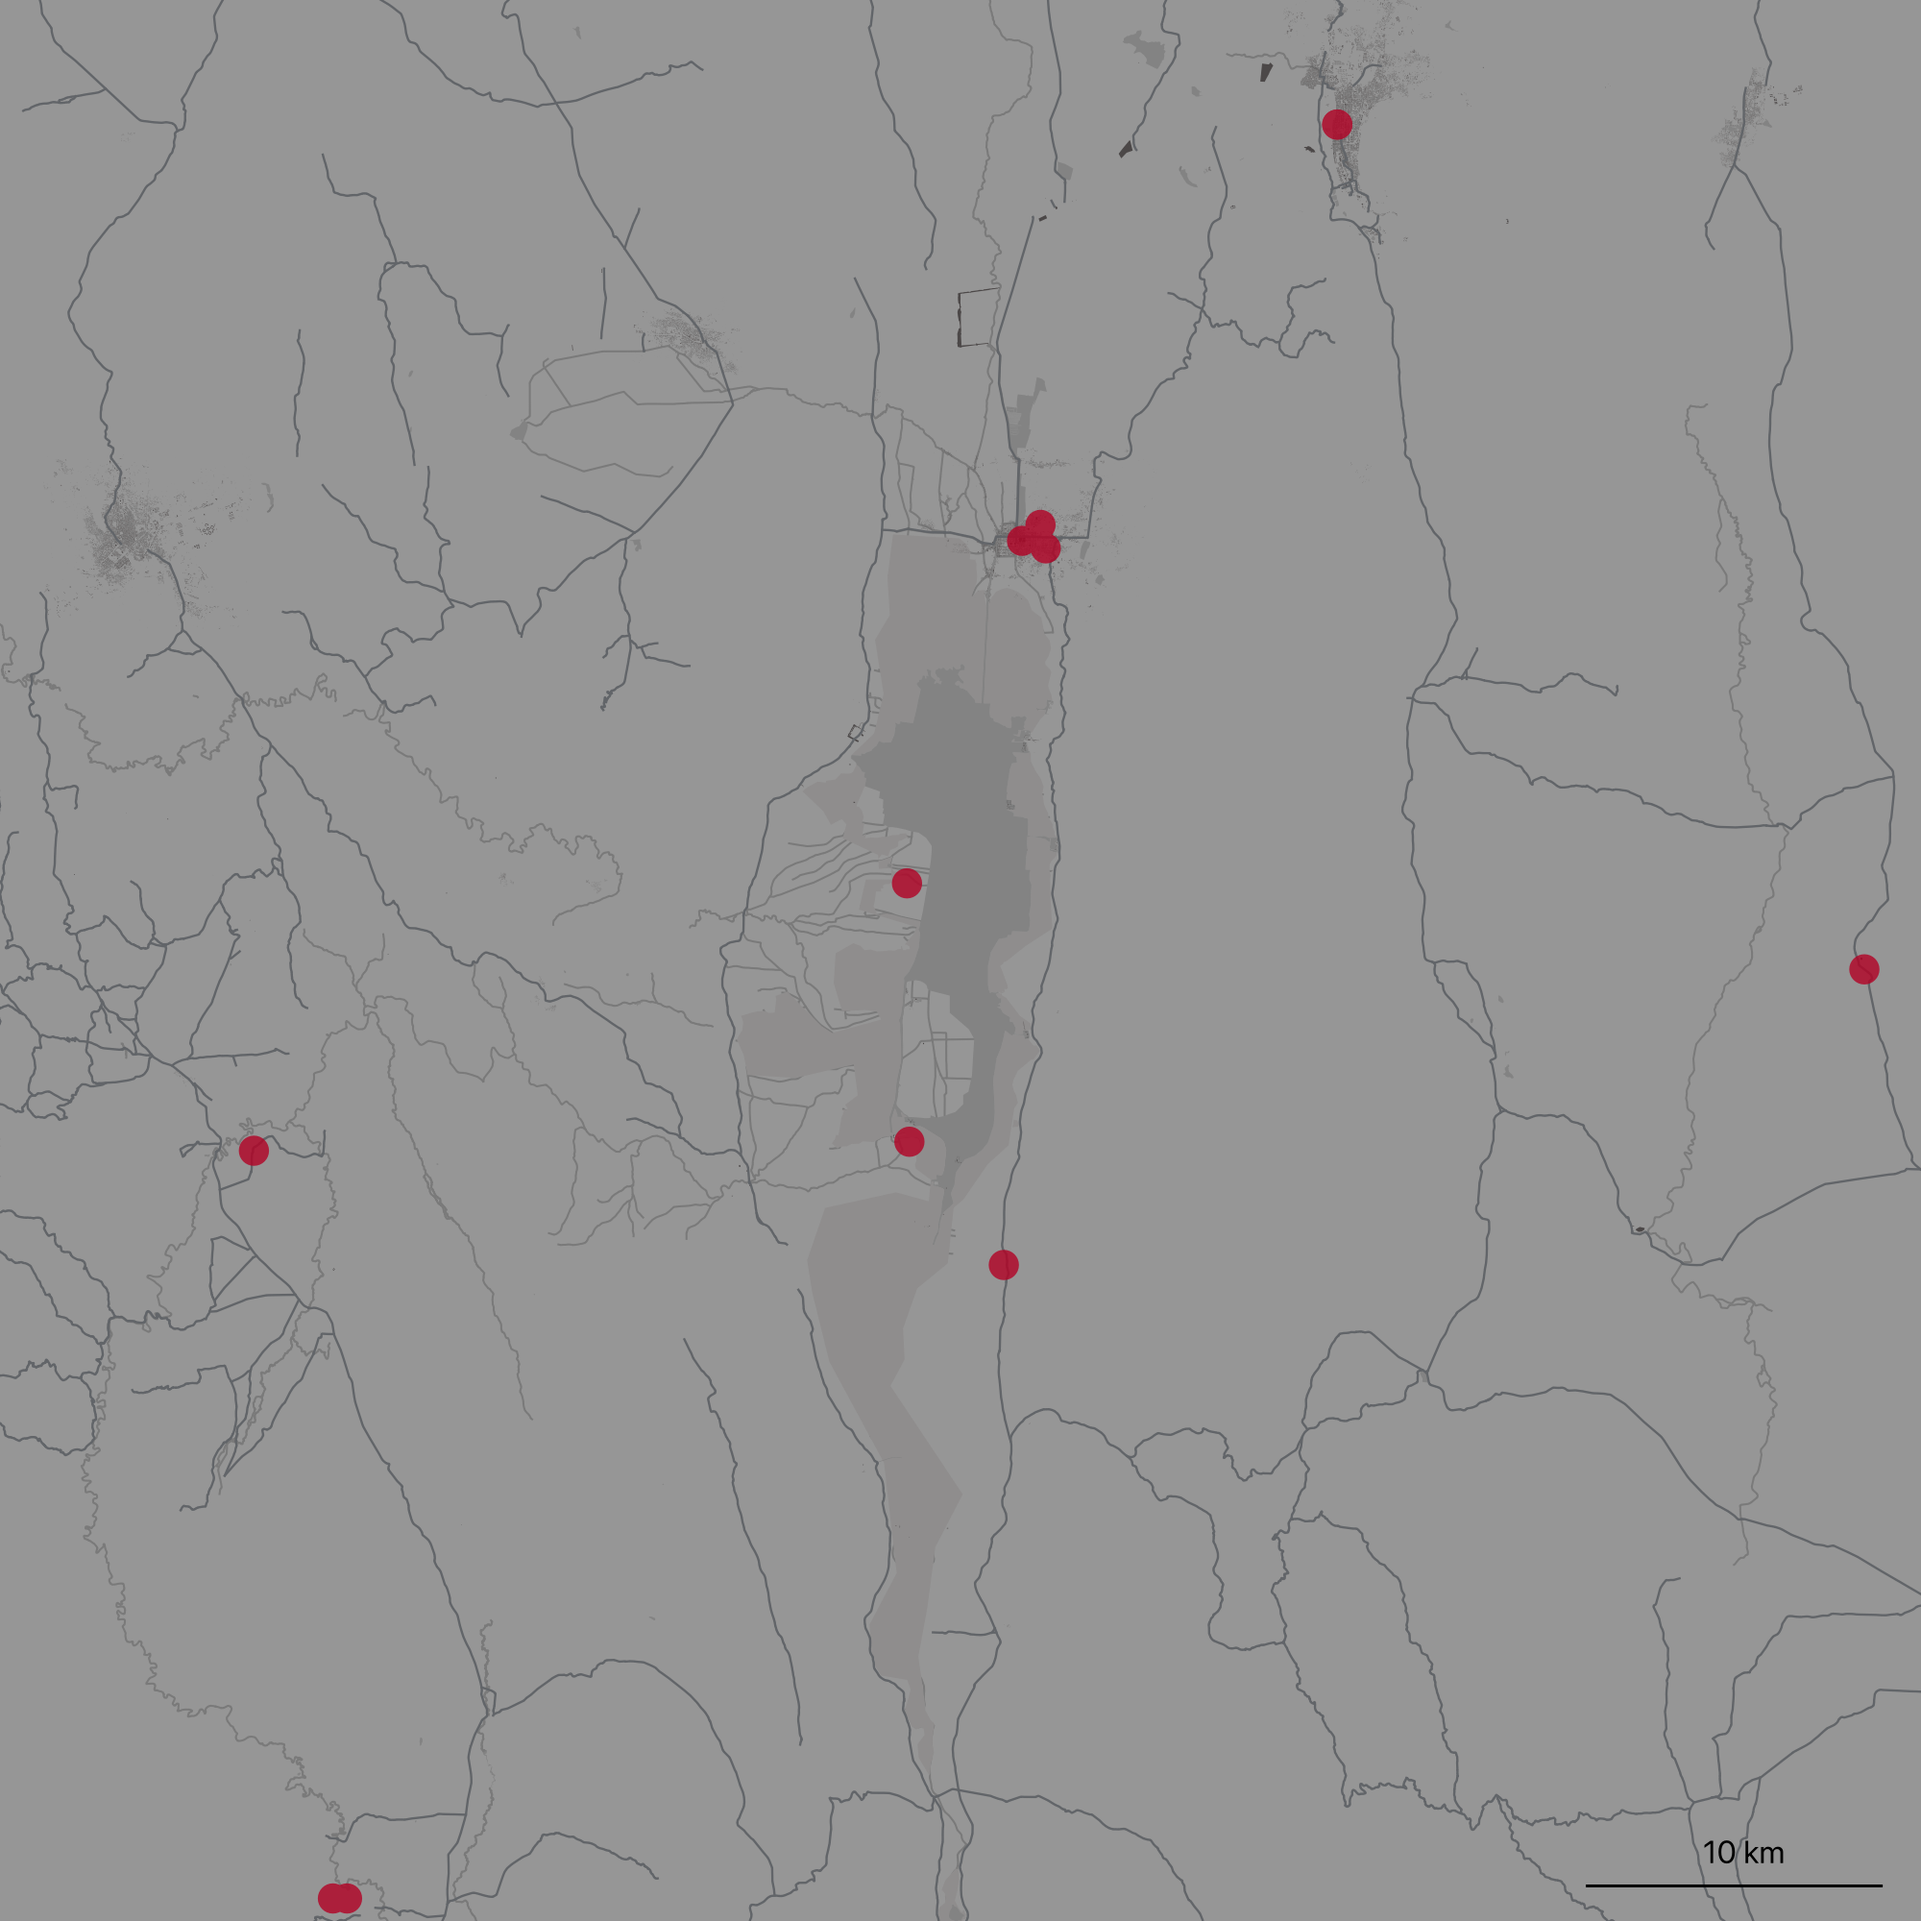
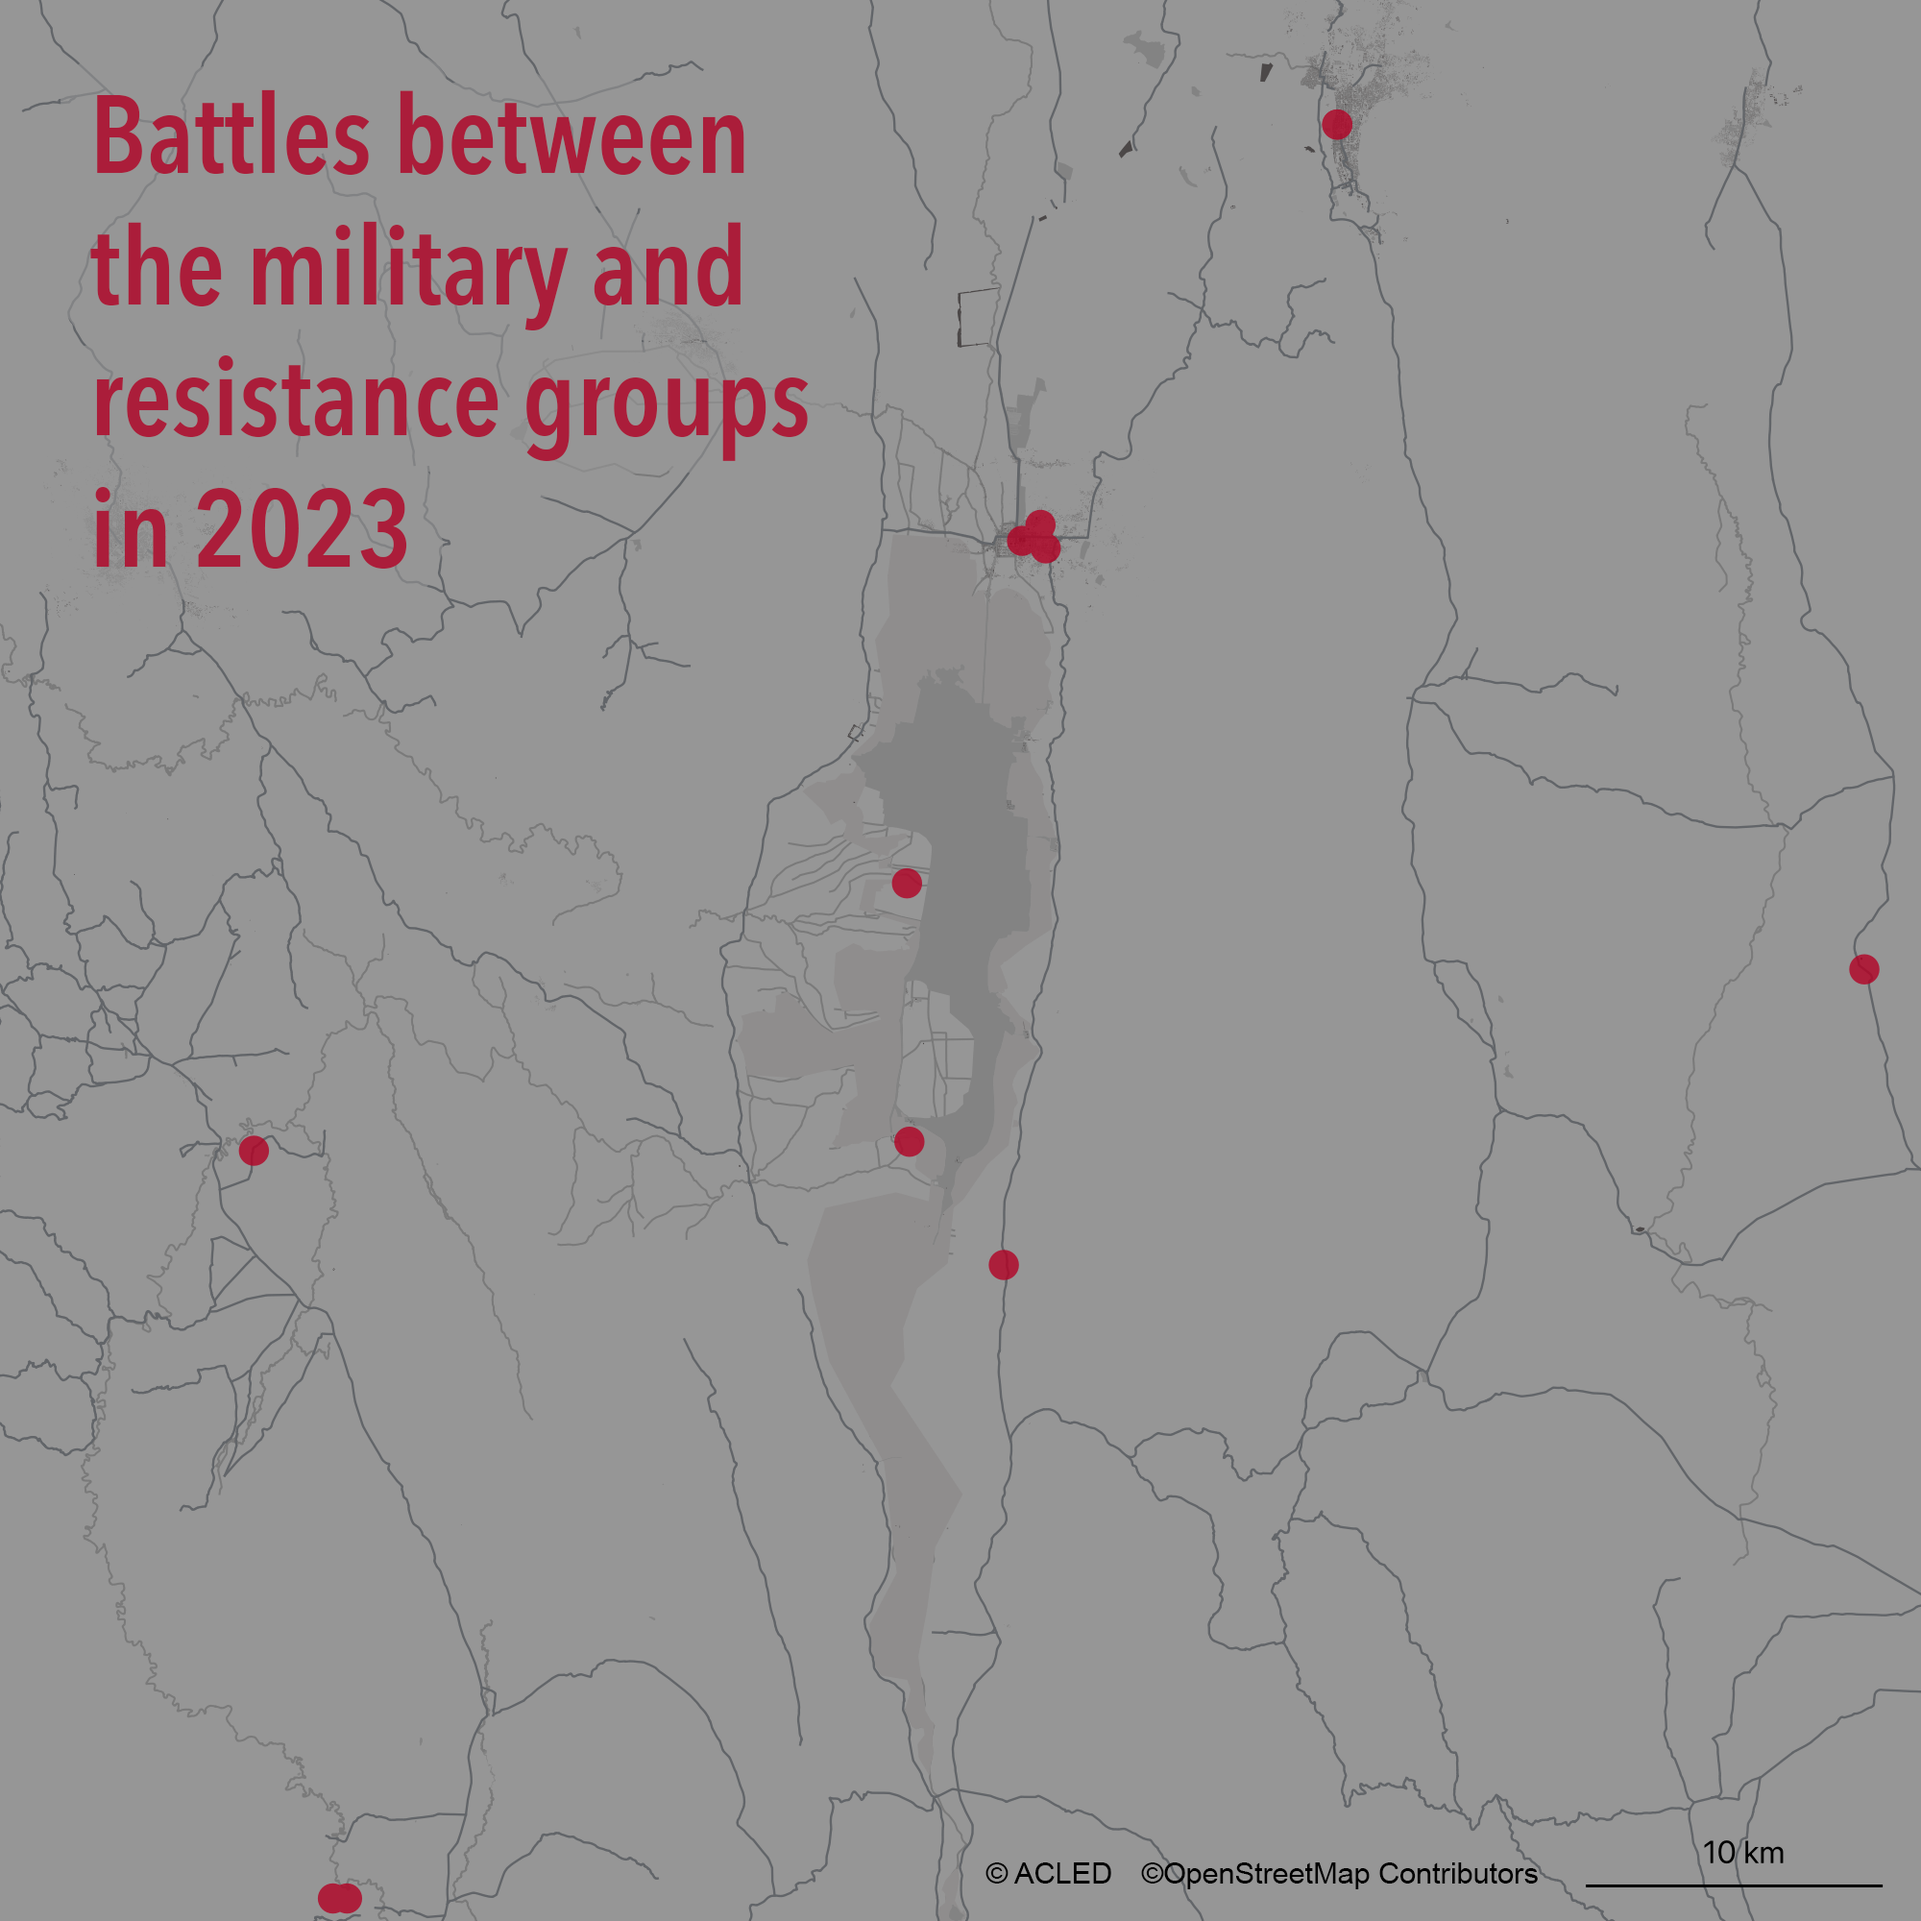
J21

Changed region(s): [[0.031, 0.031, 0.434, 0.31], [0.527, 0.961, 0.806, 0.992]]

diff --git a/2024/index.html b/2024/index.html
@@ -281,12 +281,12 @@
 								</article>
 								<article class="style1">
 									<span class="image">
-										<img src="images/pic02.jpg" alt="" />
+										<img src="images/21_conflict_violences_2023.png" alt="" />
 									</span>
-									<a href="images/pic02.jpg" target="_blank">
+									<a href="images/21_conflict_violences_2023.png" target="_blank">
 										<h2>21.Conflict</h2>
 										<div class="content">
-											<p>Coming soon</p>
+											<p>My country has been in a civil war<br>since 2021 with violence spreading<br>even in this peaceful area<br><br>Data: ACLED</p>
 										</div>
 									</a>
 								</article>
